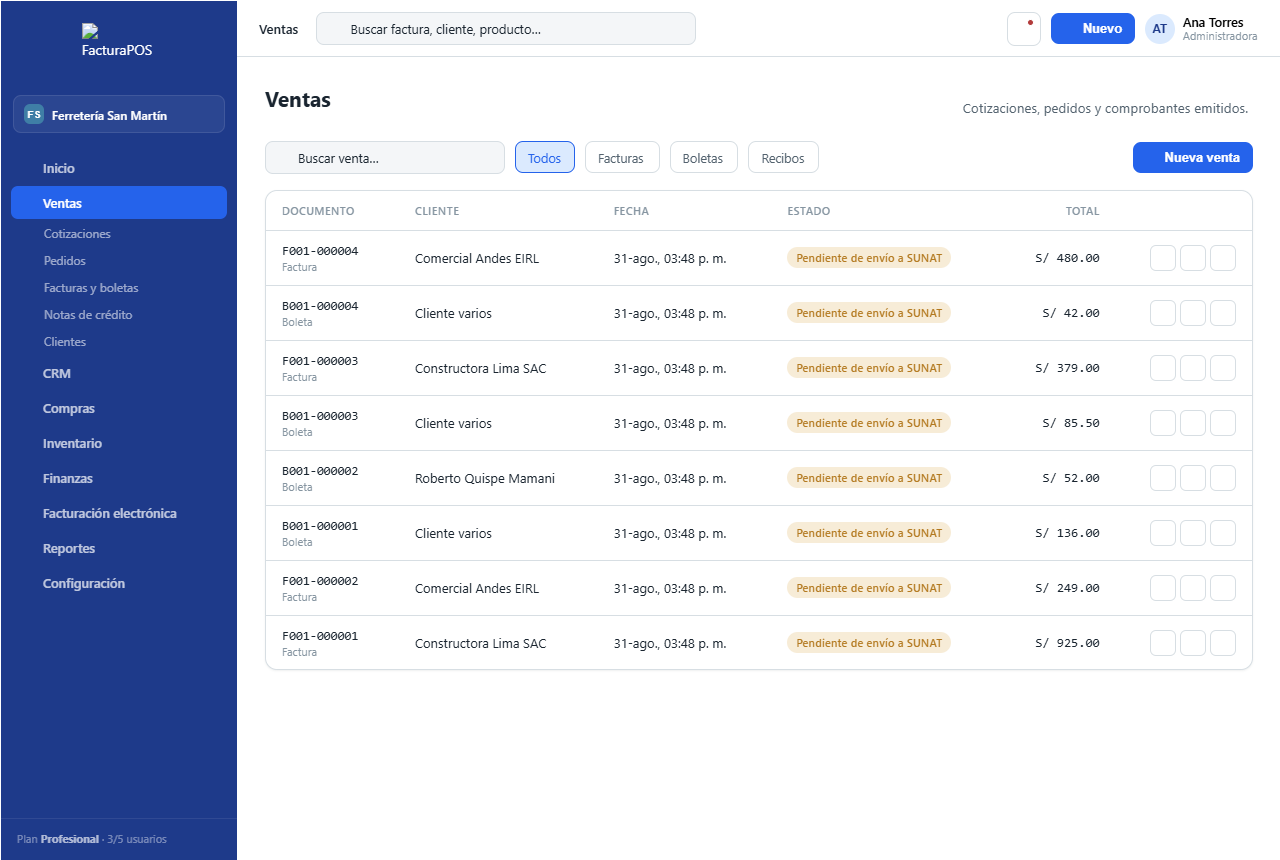
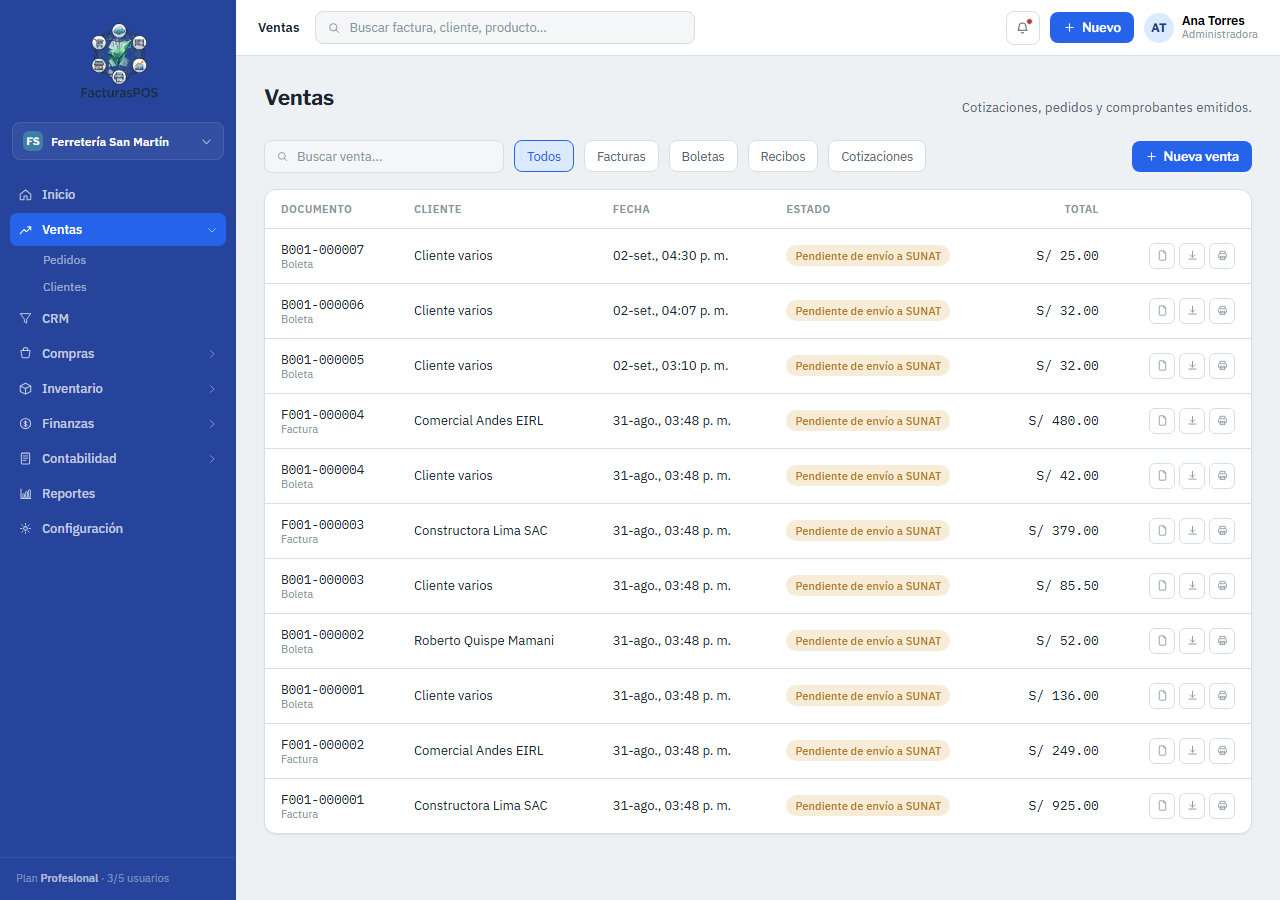
Captura actualizada + corrige huecos vacíos en el grid de Funcionalidades
- screenshots/ventas.png reemplazado por una captura real y actual del
  sistema en vivo (logo nuevo, sidebar más claro, menú con
  "Contabilidad"), tomada con Playwright headless contra el sistema real.
- El grid de 6 columnas de "Todo tu negocio desde una sola plataforma"
  dejaba huecos vacíos: una tarjeta de 4 columnas sola en su fila (con
  2 columnas libres que ninguna otra tarjeta llenaba) se repetía en 3
  filas distintas. Ahora usa solo dos tamaños que sí cierran cada fila
  (6 columnas completas o 3+3) — verificado con las posiciones reales
  del DOM, sin huecos en ninguna fila.
- La tarjeta "Reportes y cierre de caja" (ahora a todo el ancho, sin
  captura) usa un layout horizontal en desktop para no verse vacía.

diff --git a/qolqa-landing/src/LandingPage.tsx b/qolqa-landing/src/LandingPage.tsx
@@ -86,7 +86,9 @@ type BentoItem = {
   icon: typeof Receipt;
   title: string;
   description: string;
-  size: "lg" | "md" | "sm";
+  // Grid de 6 columnas: "lg" ocupa la fila completa, "md" va en pareja
+  // (dos por fila) — cualquier otra combinación deja huecos vacíos.
+  size: "lg" | "md";
   image?: string;
   imageAlt?: string;
 };
@@ -119,13 +121,13 @@ const BENTO_ITEMS: BentoItem[] = [
     icon: Contact,
     title: "Clientes",
     description: "Historial de compras y datos de contacto de cada cliente, listos para facturar.",
-    size: "sm",
+    size: "md",
   },
   {
     icon: Boxes,
     title: "Productos",
     description: "Catálogo con precios, códigos y stock mínimo por producto.",
-    size: "sm",
+    size: "md",
   },
   {
     icon: BarChart3,
@@ -578,9 +580,8 @@ function ProblemSection() {
 }
 
 function bentoSizeClasses(size: BentoItem["size"]) {
-  if (size === "lg") return "md:col-span-4";
-  if (size === "md") return "md:col-span-3";
-  return "md:col-span-2";
+  if (size === "lg") return "md:col-span-6";
+  return "md:col-span-3";
 }
 
 function Bento() {
@@ -609,12 +610,20 @@ function Bento() {
                     <BrowserMockup src={item.image} alt={item.imageAlt ?? ""} className="border-slate-100 shadow-none" />
                   </div>
                 )}
-                <div className="flex flex-1 flex-col p-6">
-                  <div className="mb-4 flex h-11 w-11 items-center justify-center rounded-xl bg-blue-50 text-blue-700">
+                <div
+                  className={
+                    item.size === "lg" && !item.image
+                      ? "flex flex-1 flex-col gap-4 p-6 sm:flex-row sm:items-center"
+                      : "flex flex-1 flex-col p-6"
+                  }
+                >
+                  <div className="flex h-11 w-11 flex-none items-center justify-center rounded-xl bg-blue-50 text-blue-700">
                     <item.icon className="h-[22px] w-[22px]" strokeWidth={2} />
                   </div>
-                  <h3 className="text-lg font-semibold text-slate-900">{item.title}</h3>
-                  <p className="mt-2 text-sm leading-relaxed text-slate-600">{item.description}</p>
+                  <div className={item.size === "lg" && !item.image ? "mt-0" : "mt-4"}>
+                    <h3 className="text-lg font-semibold text-slate-900">{item.title}</h3>
+                    <p className="mt-2 max-w-xl text-sm leading-relaxed text-slate-600">{item.description}</p>
+                  </div>
                 </div>
               </div>
             </Reveal>
